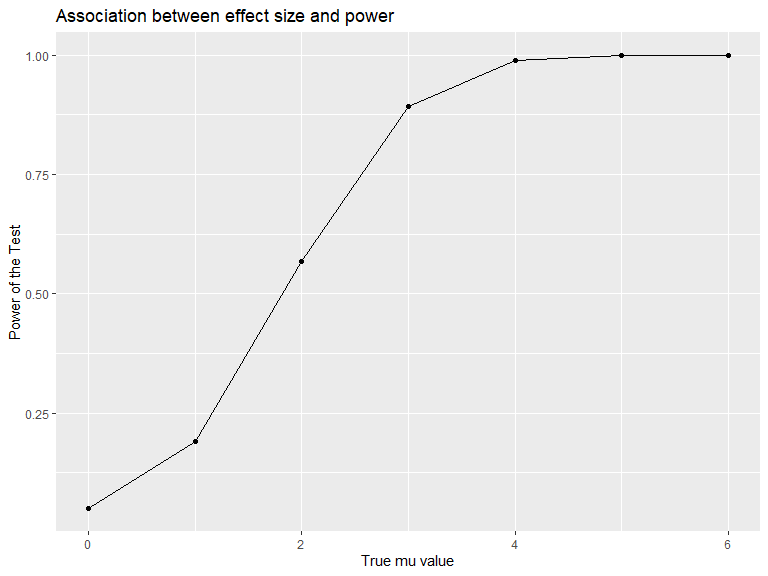
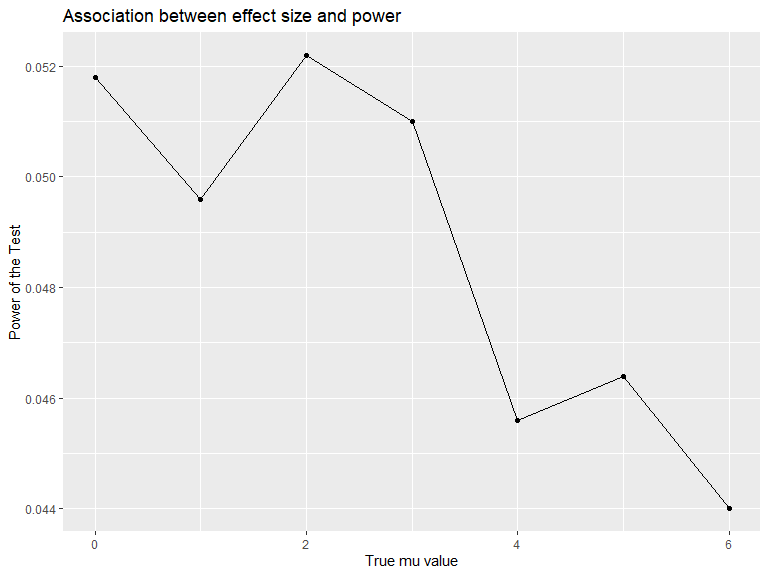
Problem 3 fixed in function

diff --git a/p8105_hw5_mgw2144.md b/p8105_hw5_mgw2144.md
@@ -95,9 +95,10 @@ indicates a positive relationship between observation value and week
 ``` r
 sim_function = function(n = 30, mu_val = c(0, 1, 2, 3, 4, 5, 6), sigma = 5, alpha = 0.05, num_datasets = 5000) {
   
-  datasets = replicate(num_datasets, rnorm(n, mean = 0, sd = sigma), simplify = FALSE)
-  
   results = map_df(mu_val, function(mu) {
+    
+    datasets = replicate(num_datasets, rnorm(n, mean = mu, sd = sigma), simplify = FALSE)
+    
     map_df(datasets, function(dataset) {
       t_test_result = t.test(dataset, mu = mu)
       tidy_results = broom::tidy(t_test_result)
@@ -151,7 +152,7 @@ plot_2 =
   plot_2_df %>% 
   ggplot(aes(x = mu, y = avg_mu_hat)) +
   geom_point()+
-  geom_smooth()+
+  geom_line()+
   labs(
     title = "Average estiamte of mu hat vs. the true mu value",
     x = "True mu value",
@@ -161,6 +162,29 @@ plot_2 =
 plot_2
 ```
 
-    ## `geom_smooth()` using method = 'loess' and formula = 'y ~ x'
-
 <img src="p8105_hw5_mgw2144_files/figure-gfm/unnamed-chunk-7-1.png" width="90%" />
+
+## Plot 3: Avergate estimate of mu in samples where the null is rejected compared to the true mean value
+
+``` r
+plot_3_df = 
+  result_df %>%
+  filter(p_value < 0.05) %>%
+  group_by(mu) %>%
+  summarise(avg_mu_hat_rej = mean(mu_est))
+
+plot_3 =
+  plot_3_df %>%
+  ggplot(aes(x = mu, y = avg_mu_hat_rej)) +
+  geom_line(color = "pink") +
+  geom_point(color = "pink") +
+  labs(
+    x = "True value of mu",
+    y = "Average estimate of mu",
+    title = "Average estimate of mu for samples where null hypothesis was rejected"
+  )
+
+plot_3
+```
+
+<img src="p8105_hw5_mgw2144_files/figure-gfm/unnamed-chunk-8-1.png" width="90%" />
